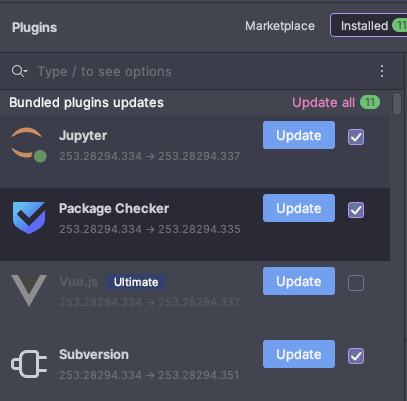
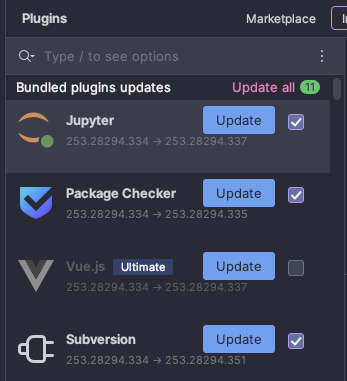
feat: syncs theme with upstream v2.3.0

diff --git a/docs/diffs.md b/docs/diffs.md
@@ -1,32 +1,117 @@
 # Diffs against upstream Dracula Theme
 
-## Notification
+This document tracks all specific theme keys and editor scheme options where **Dracula Void** intentional overrides differ from upstream **Dracula Colorful** / **Dracula Theme**, organized by component alongside visual comparison screenshots.
+
+## Theme JSON Key Overrides (`*.theme.json`)
+
+### Core Color Palette
+| Key | Upstream Value | Dracula Void Value | Description |
+|---|---|---|---|
+| `colors.primaryBackground` | `#282a36` | `#000000` | Pure black background for main windows and containers |
+| `colors.secondaryBackground` | `#3a3d4c` | `#000000` | Pure black background for secondary panels |
+| `colors.editorBackground` | `#282a36` | `#000000` | Pure black background for editor canvas |
+
+### General UI & Window Surfaces
+| Component Key | Upstream Value | Dracula Void Value |
+|---|---|---|
+| `ui.EditorTabs.underlinedTabBackground` | `#292b38` | `selectionInactiveBackground` |
+| `ui.Table.lightSelectionBackground` | `secondaryBackground` | `selectionBackground` |
+| `ui.ToolWindow.background` | `secondaryBackground` | `primaryBackground` |
+| `ui.ToolWindow.Button.selectedBackground` | `selectionBackground` | `secondaryAccentColor` |
+| `ui.Tree.background` | `secondaryBackground` | `primaryBackground` |
+| `ui.WelcomeScreen.Details.background` | `hoverBackground` | `secondaryBackground` |
+
+---
+
+## XML Editor Scheme Overrides (`DraculaVoid.xml`)
+
+| Scheme Option Key | Upstream Value | Dracula Void Value | Description |
+|---|---|---|---|
+| `CONSOLE_BACKGROUND_KEY` | `"282a36"` | `""` (transparent) | Inherits pure black editor/terminal background |
+| `DEFAULT_IDENTIFIER` foreground | `#b9bcd1` | `#f8f8f2` | Brightened identifier text |
+| `DEFAULT_INSTANCE_FIELD` foreground | `#ffb86c` | `#f8f8f2` | Cleaned field foreground contrast |
+| `DEFAULT_LOCAL_VARIABLE` foreground | `#b9bcd1` | `#f8f8f2` | Brightened local variable text |
+| `DEFAULT_PARAMETER` foreground | `#b9bcd1` | `#ffb86c` | Orange parameter text |
+| `TEXT` background | `#282a36` | `#000000` | Pure black editor text background |
+
+---
+
+## Visual Components & Key Breakdown
+
+### Notification
+
+**Involved Keys:**
+
+| Key | Upstream Value | Dracula Void Value |
+|---|---|---|
+| `ui.Notification.errorBackground` | `primaryBackground` | `primaryBackground` (`#000000`) |
+| `ui.Notification.errorBorderColor` | `#ff5554` | `#ff5554` |
+| `ui.Notification.ToolWindow.errorBackground` | `primaryBackground` | `primaryBackground` (`#000000`) |
 
 | Before                                         | After                                        |
 |------------------------------------------------|----------------------------------------------|
 | ![before](./resources/notification-before.png) | ![after](./resources/notification-after.png) |
 
-## Checkbox
+---
+
+### Checkbox
+
+**Involved Keys:**
+
+| Key | Upstream Value | Dracula Void Value |
+|---|---|---|
+| `icons.ColorPalette.Checkbox.Foreground.Selected.Dark` | `#f8f8f2` | `#bd93f9` |
+| `icons.ColorPalette.Checkbox.Border.Disabled.Dark` | `#6272a4` | `#424860` |
+| `icons.ColorPalette.Checkbox.Background.Default.Dark` | `#6272a4` | `#424860` |
 
 | Before                                     | After                                    |
 |--------------------------------------------|------------------------------------------|
 | ![before](./resources/checkbox-before.png) | ![after](./resources/checkbox-after.png) |
 
-## Action Button
+---
+
+### Action Button
+
+**Involved Keys:**
+
+| Key | Upstream Value | Dracula Void Value |
+|---|---|---|
+| `ui.ActionButton.pressedBackground` | `secondaryBackground` | `selectionInactiveBackground` |
+| `ui.ActionButton.pressedBorderColor` | `secondaryBackground` | `secondaryAccentColor` |
 
 | Before                                          | After                                         |
 |-------------------------------------------------|-----------------------------------------------|
 | ![before](./resources/action-button-before.png) | ![after](./resources/action-button-after.png) |
 
-## Button
+---
+
+### Button
+
+**Involved Keys:**
+
+| Key | Upstream Value | Dracula Void Value |
+|---|---|---|
+| `ui.Button.startBackground` | `#565b75` | `primaryBackground` |
+| `ui.Button.endBackground` | `#565b75` | `primaryBackground` |
+| `ui.Button.disabledBorderColor` | `#565b75` | `separatorColor` |
 
 | Before                                          | After                                         |
 |-------------------------------------------------|-----------------------------------------------|
 | ![before](./resources/button-before.png) | ![after](./resources/button-after.png) |
 
-## Plugins
+---
+
+### Plugins
+
+**Involved Keys:**
+
+| Key | Upstream Value | Dracula Void Value |
+|---|---|---|
+| `ui.Plugins.lightSelectionBackground` | `secondaryBackground` | `selectionBackground` |
+| `ui.Plugins.Button.updateBorderColor` | `#5da3f4` | `accentColor` |
+| `ui.Plugins.Button.updateForeground` | `primaryBackground` | `primaryForeground` |
+| `ui.Plugins.Button.updateBackground` | `#5da3f4` | `accentColor` |
 
 | Before                                    | After                                   |
 |-------------------------------------------|-----------------------------------------|
 | ![before](./resources/plugins-before.png) | ![after](./resources/plugins-after.png) |
-

diff --git a/CONTRIBUTING.md b/CONTRIBUTING.md
@@ -23,7 +23,7 @@ Thanks for contributing to Dracula Void.
 
 ## Building and testing
 
-The project uses Gradle `9.1.0` and the IntelliJ Platform Gradle plugin `2.12.0`.
+The project uses Gradle `9.1.0` and the IntelliJ Platform Gradle plugin `2.18.1`.
 
 Build the plugin ZIP:
 
